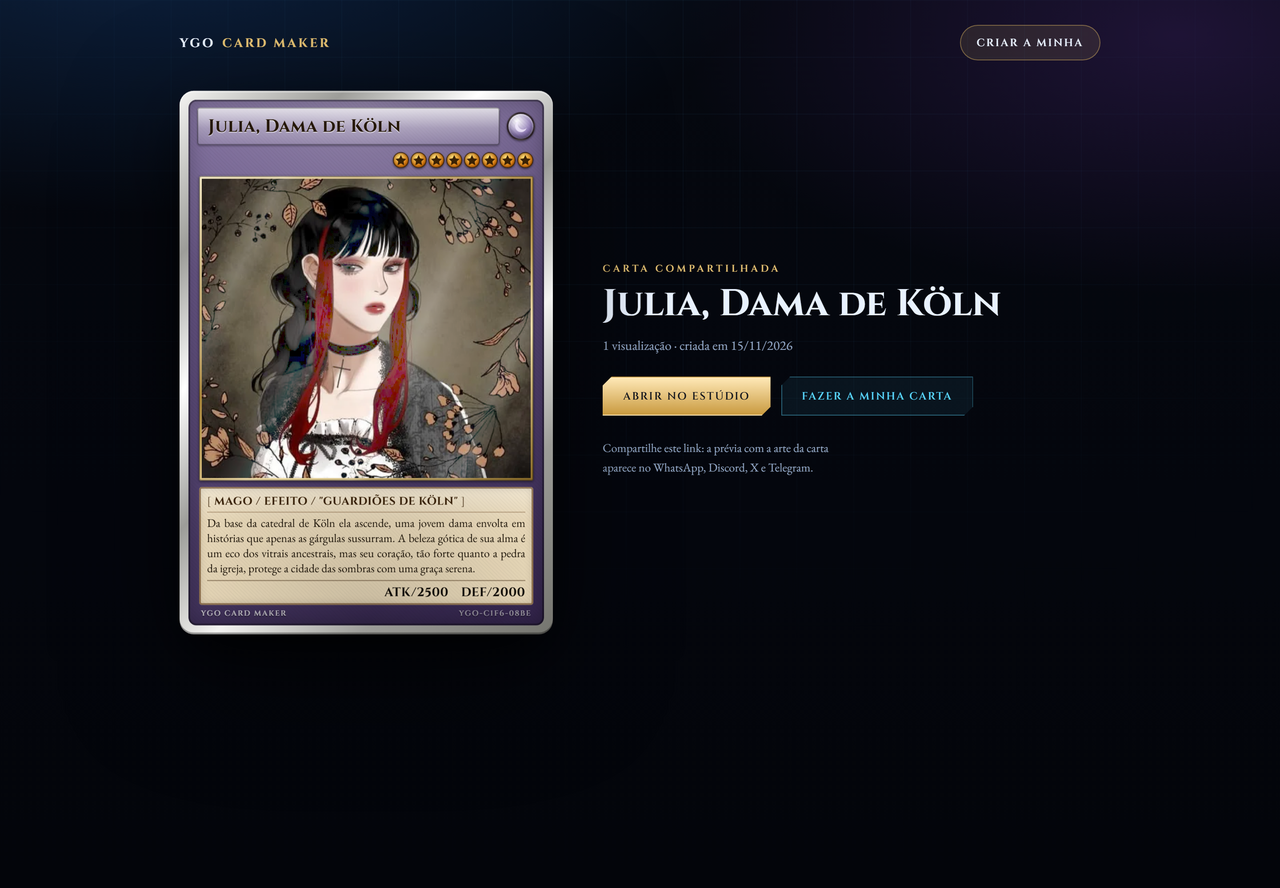
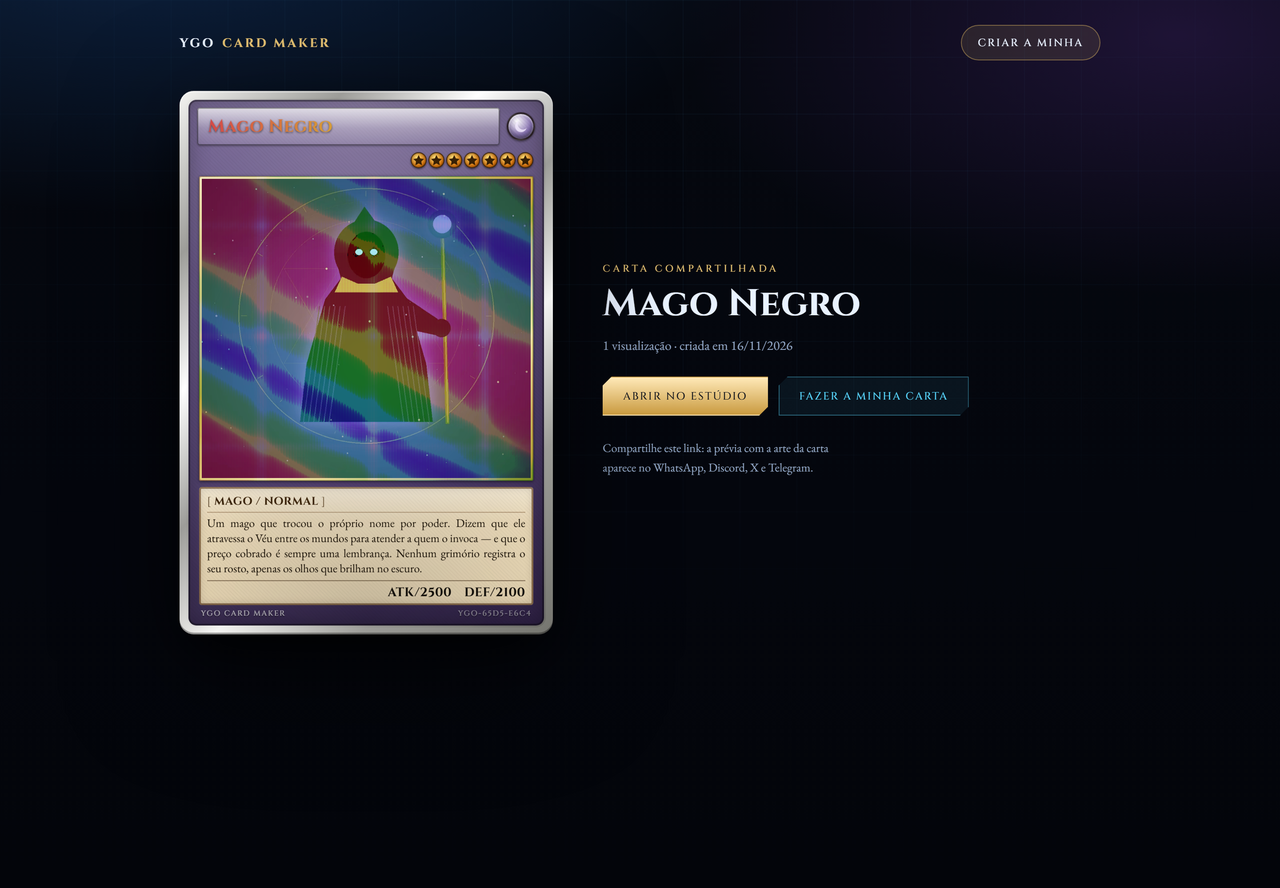
feat(demo): Mago Negro no card de exemplo, arte configuravel e linha de credito

diff --git a/web/src/lib/demo.ts b/web/src/lib/demo.ts
@@ -1,23 +1,43 @@
 import type { CardDraft } from '../types'
 
-/** Carta de exemplo usada na home (arte: /demo-julia.png). */
+/**
+ * Arte do card de exemplo. O repositório traz uma ilustração original
+ * (`/demo-mago-negro.png`); para usar outra imagem localmente sem versioná-la,
+ * salve em `web/public/local-mago.png` e defina VITE_DEMO_ART=/local-mago.png
+ * em `web/.env.local` (ignorado pelo git).
+ */
+const DEMO_ART = import.meta.env.VITE_DEMO_ART ?? '/demo-mago-negro.png'
+
+/**
+ * Crédito da arte de exemplo. Só aparece se VITE_DEMO_CREDIT estiver definido.
+ * Use junto com VITE_DEMO_CREDIT_URL quando a imagem for de terceiros.
+ */
+export const DEMO_CREDIT: { label: string; url?: string } | null = import.meta.env
+  .VITE_DEMO_CREDIT
+  ? {
+      label: import.meta.env.VITE_DEMO_CREDIT,
+      url: import.meta.env.VITE_DEMO_CREDIT_URL,
+    }
+  : null
+
+/** Carta de exemplo usada na home (arte: /demo-mago-negro.png). */
 export const DEMO_CARD: CardDraft & { id: string } = {
   id: '0f3d9a52-7c1e-4a6b-9a41-2c7e5b1d8f03',
-  name: 'Julia, Dama de Köln',
+  name: 'Mago Negro',
   kind: 'monster',
   description:
-    'Da base da catedral de Köln ela ascende, uma jovem dama envolta em histórias que apenas as gárgulas sussurram. A beleza gótica de sua alma é um eco dos vitrais ancestrais, mas seu coração, tão forte quanto a pedra da igreja, protege a cidade das sombras com uma graça serena.',
-  monster_kind: 'effect',
+    'Um mago que trocou o próprio nome por poder. Dizem que ele atravessa o Véu entre os mundos para atender a quem o invoca — e que o preço cobrado é sempre uma lembrança. Nenhum grimório registra o seu rosto, apenas os olhos que brilham no escuro.',
+  monster_kind: 'normal',
   spell_kind: null,
   trap_kind: null,
   attribute: 'dark',
   race: 'Mago',
-  archetype: 'Guardiões de Köln',
-  level: 8,
+  archetype: '',
+  level: 7,
   atk: 2500,
-  defense: 2000,
-  image_url: '/demo-julia.png',
+  defense: 2100,
+  image_url: DEMO_ART,
   image_path: null,
-  rarity: 'secret',
+  rarity: 'super',
   is_public: true,
 }

diff --git a/web/src/pages/Home.tsx b/web/src/pages/Home.tsx
@@ -2,7 +2,7 @@ import { useEffect, useState } from 'react'
 import { Link } from 'react-router-dom'
 import { api } from '../lib/api'
 import { useSession } from '../lib/session'
-import { DEMO_CARD } from '../lib/demo'
+import { DEMO_CARD, DEMO_CREDIT } from '../lib/demo'
 import type { CardRecord } from '../types'
 import { CardScaler } from '../components/CardScaler'
 import { YgoCard } from '../components/YgoCard'
@@ -83,6 +83,18 @@ export function HomePage() {
           <CardScaler maxWidth={460}>
             <YgoCard card={DEMO_CARD} />
           </CardScaler>
+          {DEMO_CREDIT && (
+            <p className="hero__credit">
+              Arte:{' '}
+              {DEMO_CREDIT.url ? (
+                <a href={DEMO_CREDIT.url} target="_blank" rel="noreferrer noopener">
+                  {DEMO_CREDIT.label}
+                </a>
+              ) : (
+                DEMO_CREDIT.label
+              )}
+            </p>
+          )}
         </div>
       </section>
 

diff --git a/web/src/pages/Editor.tsx b/web/src/pages/Editor.tsx
@@ -381,7 +381,7 @@ export function EditorPage() {
                 className="input"
                 value={draft.name}
                 maxLength={60}
-                placeholder="Ex.: Julia, Dama de Köln"
+                placeholder="Ex.: Mago Negro"
                 onChange={(event) => update({ name: event.target.value })}
               />
             </Field>
@@ -392,7 +392,7 @@ export function EditorPage() {
                   className="input"
                   value={draft.archetype ?? ''}
                   maxLength={40}
-                  placeholder='Ex.: "Guardiões de Köln"'
+                  placeholder='Ex.: "Magia Negra"'
                   onChange={(event) => update({ archetype: event.target.value })}
                 />
               </Field>

diff --git a/web/src/styles/app.css b/web/src/styles/app.css
@@ -492,6 +492,23 @@ a {
   }
 }
 
+.hero__credit {
+  position: absolute;
+  right: 0;
+  bottom: -6px;
+  margin: 0;
+  font-family: var(--font-ui);
+  font-size: 11px;
+  letter-spacing: 0.12em;
+  text-transform: uppercase;
+  color: var(--muted-2);
+}
+
+.hero__credit a {
+  color: var(--cyan);
+  border-bottom: 1px solid rgba(89, 216, 255, 0.35);
+}
+
 /* --- seções ---------------------------------------------------------------- */
 .section {
   padding: 54px 0;

diff --git a/web/src/vite-env.d.ts b/web/src/vite-env.d.ts
@@ -2,6 +2,9 @@
 
 interface ImportMetaEnv {
   readonly VITE_API_URL?: string
+  readonly VITE_DEMO_ART?: string
+  readonly VITE_DEMO_CREDIT?: string
+  readonly VITE_DEMO_CREDIT_URL?: string
   readonly VITE_PROXY_TARGET?: string
 }
 

diff --git a/tests/test_domain.py b/tests/test_domain.py
@@ -37,7 +37,7 @@ def make_card(**overrides) -> Card:
 
 class TestSlug:
     def test_remove_acentos_e_espacos(self):
-        assert slugify("Julia, Dama de Köln") == "julia-dama-de-koln"
+        assert slugify("Coração de Dragão") == "coracao-de-dragao"
 
     def test_nome_sem_letras_usa_fallback(self):
         assert slugify("!!! ???") == "carta"
@@ -55,8 +55,8 @@ class TestSlug:
 
 class TestTypeLine:
     def test_monstro_completo(self):
-        card = make_card(archetype="Guardiões de Köln")
-        assert type_line(card) == 'FADA / EFEITO / "GUARDIÕES DE KÖLN"'
+        card = make_card(archetype="Magia Negra")
+        assert type_line(card) == 'FADA / EFEITO / "MAGIA NEGRA"'
 
     def test_monstro_sem_raca(self):
         assert type_line(make_card(race=None)) == "EFEITO"

diff --git a/src/app/domain/schemas.py b/src/app/domain/schemas.py
@@ -32,7 +32,7 @@ class CardWrite(BaseModel):
 
     model_config = ConfigDict(str_strip_whitespace=True, extra="forbid")
 
-    name: str = Field(min_length=1, max_length=MAX_NAME, examples=["Julia, Dama de Köln"])
+    name: str = Field(min_length=1, max_length=MAX_NAME, examples=["Mago Negro"])
     kind: CardKind
     description: str = Field(default="", max_length=MAX_DESCRIPTION)
 
